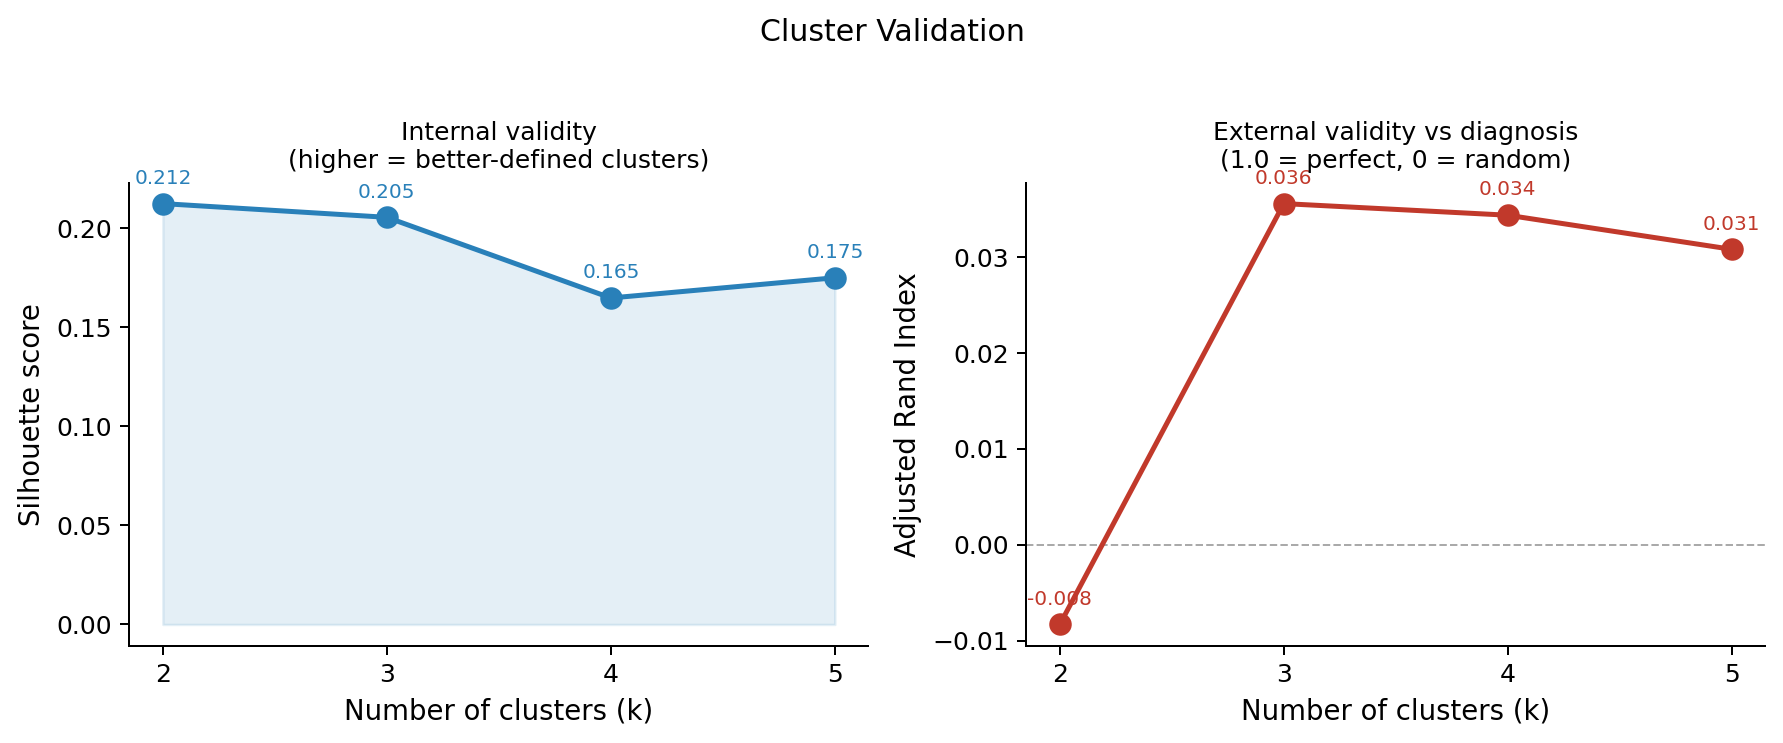
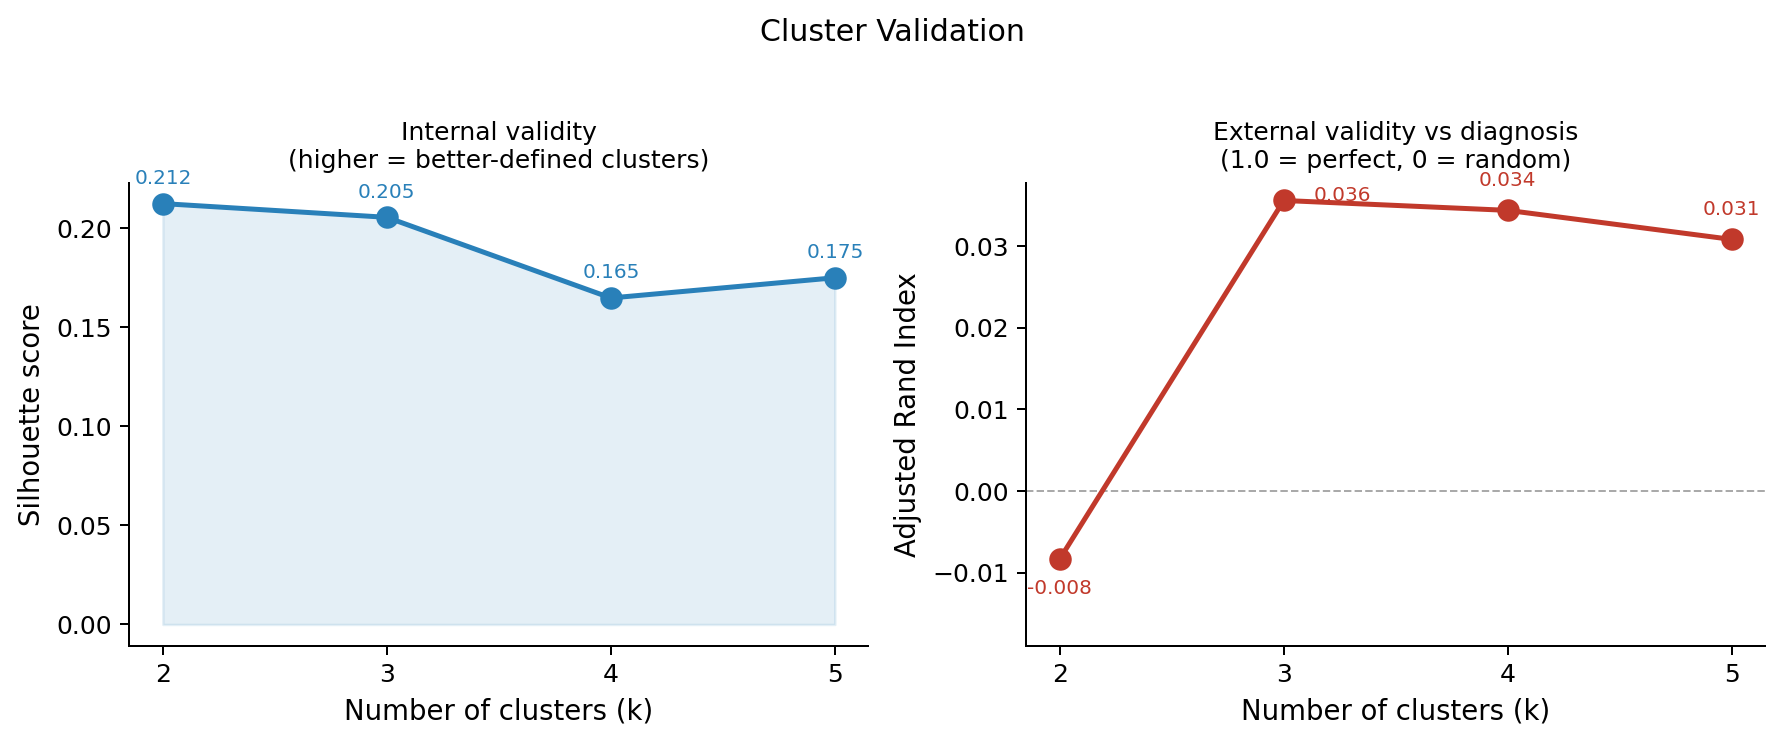
Updated Fig 5

diff --git a/scripts/03_cluster_analysis.py b/scripts/03_cluster_analysis.py
@@ -462,7 +462,8 @@ def plot_cluster_validation(expr, meta):
             f'{row["Silhouette score"]:.3f}',
             (row["k"], row["Silhouette score"]),
             textcoords="offset points", xytext=(0, 8),
-            ha="center", fontsize=8, color="#2980B9"
+            ha="center", fontsize=8, color="#2980B9",
+            clip_on=False,
         )
     axes[0].set_xlabel("Number of clusters (k)", fontsize=11)
     axes[0].set_ylabel("Silhouette score", fontsize=11)
@@ -473,14 +474,26 @@ def plot_cluster_validation(expr, meta):
         axes[1].plot(df["k"], df["ARI vs diagnosis"], "o-",
                      color="#C1392B", lw=2, ms=8, zorder=3)
         axes[1].axhline(0, color="#AAAAAA", lw=0.8, ls="--")
+        ari_min = df["ARI vs diagnosis"].min()
+        ari_max = df["ARI vs diagnosis"].max()
         for _, row in df.iterrows():
             if row["ARI vs diagnosis"] is not None:
+                a = row["ARI vs diagnosis"]
+                if a == ari_min:
+                    x_offset, y_offset, ha = 0, -14, "center"   # below dot
+                elif a == ari_max:
+                    x_offset, y_offset, ha = 12, 0, "left"      # right of dot
+                else:
+                    x_offset, y_offset, ha = 0, 10, "center"    # above dot
                 axes[1].annotate(
-                    f'{row["ARI vs diagnosis"]:.3f}',
-                    (row["k"], row["ARI vs diagnosis"]),
-                    textcoords="offset points", xytext=(0, 8),
-                    ha="center", fontsize=8, color="#C1392B"
+                    f'{a:.3f}',
+                    (row["k"], a),
+                    textcoords="offset points", xytext=(x_offset, y_offset),
+                    ha=ha, fontsize=8, color="#C1392B",
+                    clip_on=False,
                 )
+        ymin, ymax = axes[1].get_ylim()
+        axes[1].set_ylim(ymin - abs(ymin) * 0.8, ymax)
         axes[1].set_xlabel("Number of clusters (k)", fontsize=11)
         axes[1].set_ylabel("Adjusted Rand Index", fontsize=11)
         axes[1].set_title("External validity vs diagnosis\n(1.0 = perfect, 0 = random)",
@@ -490,7 +503,6 @@ def plot_cluster_validation(expr, meta):
     plt.tight_layout()
     fig.savefig(FIG_DIR / "fig5_cluster_validation.png", bbox_inches="tight")
     plt.close()
-
 
 def main():
     print("=" * 55)